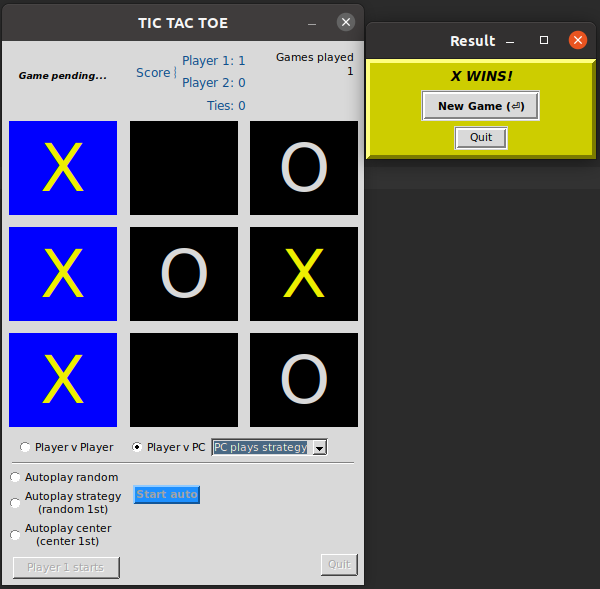
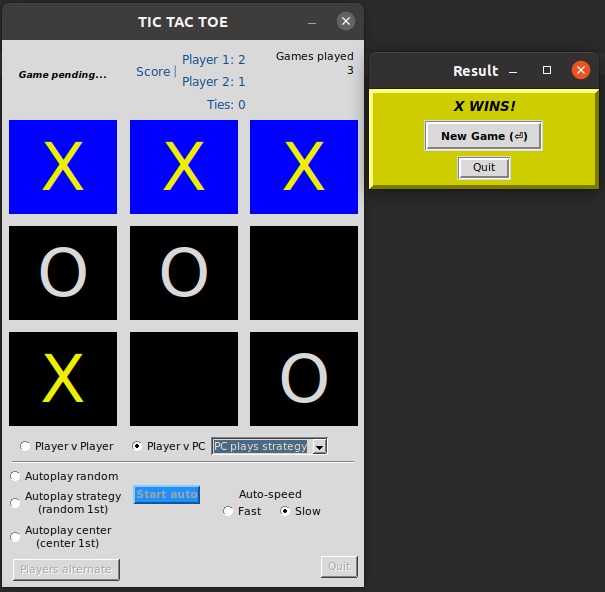
version 0.1.3: update README.md

diff --git a/README.md b/README.md
@@ -42,11 +42,11 @@ In Autoplay mode, PC plays itself. You can choose to have Player 1 (X) start eve
 
 ### Screenshots
 
-Player wins first game in Player v PC mode. A Result pop-up window prompts user to play again or quit the program. The pop-up window can be repositioned.
+Player (X) wins 3rd game in Player v PC mode. A Result pop-up window prompts user to play again or quit the program. The pop-up window can be repositioned.
 
 ![pvpc-game](images/X_wins_PvPC.png)
 
-Autoplay game in progress with random mode, with PC players alternating start turns, 446 play turns remaining:
+Autoplay game in progress with random mode, with PC players alternating start turns, 818 turns remaining, autoplay speed set to Slow, the default:
 
 ![autoplay-game](images/autoplay.png)
 
